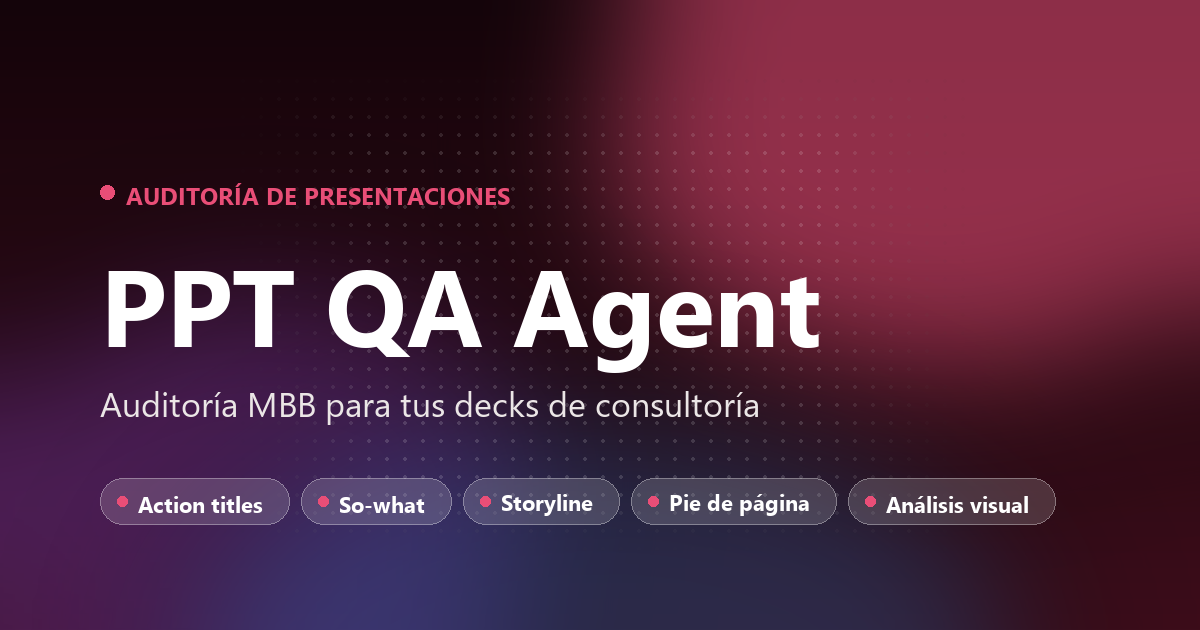
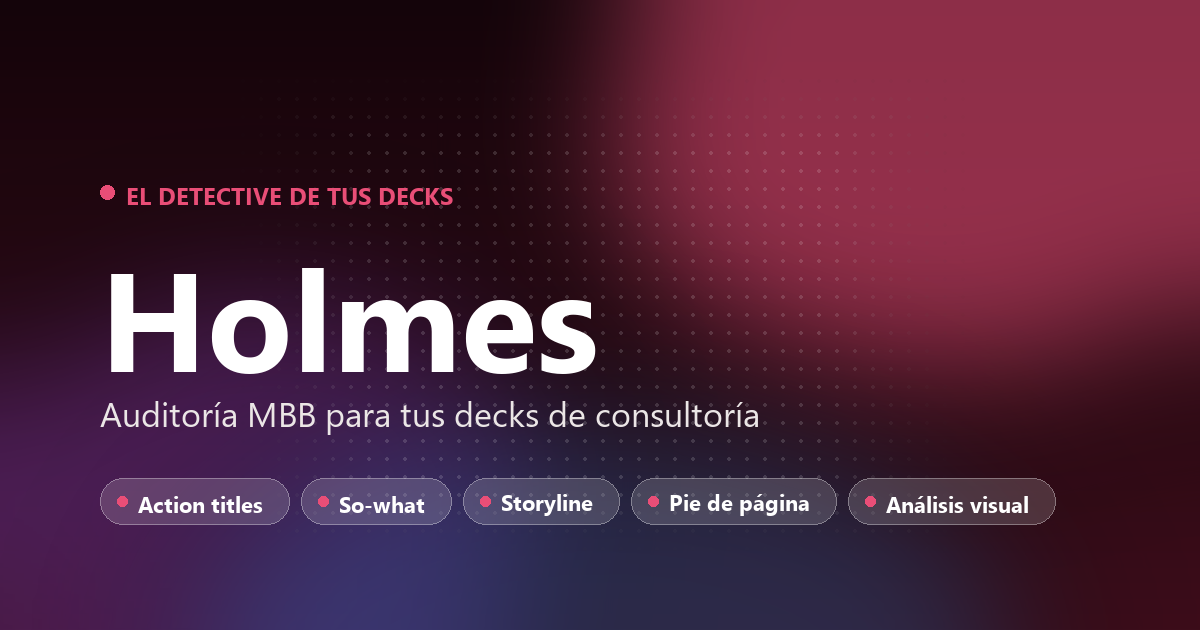
brand: rename to Holmes — el detective de tus decks
Rebrands the app around a Sherlock Holmes metaphor (the app investigates
decks, finds the issues, recommends fixes).

- Hero title: 'Holmes' with eyebrow 'El detective de tus decks'
- Body copy: 'Holmes lo investiga slide por slide con criterio de
  senior MBB.'
- page_title: 'Holmes — Auditoría MBB de presentaciones'
- page_icon fallback emoji: :bar_chart: → :mag: (magnifier)
- app.py module docstring updated

Logo (assets/logo.svg)
- Replaced the 'QA' text badge with a magnifier-ring motif: thin white
  ring + handle stroke + a small 'H' monogram in the centre. Reads as
  detective at a glance while still being legible at favicon size.

OG image (scripts/generate_og_image.py → static/og-image.png)
- Title text 'PPT QA Agent' → 'Holmes' (bumped to 140pt since it's
  shorter)
- Eyebrow 'AUDITORÍA DE PRESENTACIONES' → 'EL DETECTIVE DE TUS DECKS'
- Same composition / palette / chips otherwise

OG meta tags updated with the new title/description, pointing at the
regenerated og-image.png.

Note: deferring renaming the actual repo (ppt-qa-agent) and the
Dockerfile/README references — those are infra-touching and can wait
for a separate pass.

Changed region(s): [[0.0617, 0.4222, 0.6783, 0.6937], [0.0925, 0.3016, 0.4317, 0.3317]]

diff --git a/app.py b/app.py
@@ -1,4 +1,4 @@
-"""PPT QA Agent — Streamlit web app (simplified, checklist-style)."""
+"""Holmes — el detective de tus decks. Streamlit web app."""
 
 from __future__ import annotations
 
@@ -32,8 +32,8 @@ from sections import detect_sections
 
 _LOGO_PATH = Path(__file__).parent / "assets" / "logo.svg"
 st.set_page_config(
-    page_title="PPT QA Agent · Auditoría MBB de presentaciones",
-    page_icon=str(_LOGO_PATH) if _LOGO_PATH.exists() else ":bar_chart:",
+    page_title="Holmes — Auditoría MBB de presentaciones",
+    page_icon=str(_LOGO_PATH) if _LOGO_PATH.exists() else ":mag:",
     layout="wide",
     initial_sidebar_state="collapsed",
 )
@@ -50,13 +50,13 @@ styles.inject()
 _OG_IMAGE_URL = "https://slides-qa.streamlit.app/app/static/og-image.png"
 st.markdown(
     f'''
-<meta property="og:title" content="PPT QA Agent — Auditoría MBB de presentaciones">
-<meta property="og:description" content="Subí tu .pptx y obtené un checklist de calidad por slide: action titles, so-what, storyline, pie de página, análisis visual.">
+<meta property="og:title" content="Holmes — El detective de tus decks">
+<meta property="og:description" content="Subí tu .pptx y Holmes lo investiga slide por slide: action titles, so-what, storyline, pie de página, análisis visual. Con criterio de senior MBB.">
 <meta property="og:image" content="{_OG_IMAGE_URL}">
 <meta property="og:type" content="website">
 <meta name="twitter:card" content="summary_large_image">
-<meta name="twitter:title" content="PPT QA Agent — Auditoría MBB de presentaciones">
-<meta name="twitter:description" content="Checklist de calidad por slide con criterio de senior MBB.">
+<meta name="twitter:title" content="Holmes — El detective de tus decks">
+<meta name="twitter:description" content="Auditoría MBB de presentaciones, slide por slide.">
 <meta name="twitter:image" content="{_OG_IMAGE_URL}">
 ''',
     unsafe_allow_html=True,
@@ -68,10 +68,10 @@ st.markdown(
 # ---------------------------------------------------------------------------
 
 styles.hero(
-    "Auditoría de presentaciones",
-    "Tu deck, revisado slide por slide",
-    "Subí un <code>.pptx</code> y obtené un checklist de calidad por slide. "
-    "Modo local gratis · análisis semántico con Claude o GPT-4o.",
+    "El detective de tus decks",
+    "Holmes",
+    "Subí un <code>.pptx</code> y Holmes lo investiga slide por slide con criterio "
+    "de senior MBB. Modo local gratis · análisis semántico con Claude o GPT-4o.",
     chips=["Action titles", "So-what por slide", "Pie de página", "Storyline", "Análisis visual"],
 )
 

diff --git a/scripts/generate_og_image.py b/scripts/generate_og_image.py
@@ -122,16 +122,16 @@ def main() -> None:
     eyebrow_y = 175
     eyebrow_x = 100
     draw.ellipse([eyebrow_x, eyebrow_y + 10, eyebrow_x + 14, eyebrow_y + 24], fill=ACCENT)
-    draw.text((eyebrow_x + 26, eyebrow_y + 4), "AUDITORÍA DE PRESENTACIONES",
+    draw.text((eyebrow_x + 26, eyebrow_y + 4), "EL DETECTIVE DE TUS DECKS",
               font=eyebrow_font, fill=ACCENT)
 
     # Title
-    title_font = _load_font(108, bold=True)
-    draw.text((100, 230), "PPT QA Agent", font=title_font, fill=WHITE)
+    title_font = _load_font(140, bold=True)
+    draw.text((100, 220), "Holmes", font=title_font, fill=WHITE)
 
     # Subtitle
     subtitle_font = _load_font(34)
-    draw.text((100, 380), "Auditoría MBB para tus decks de consultoría",
+    draw.text((100, 390), "Auditoría MBB para tus decks de consultoría",
               font=subtitle_font, fill=(235, 230, 230))
 
     # Chips at the bottom — draw on a separate RGBA layer so the semi-